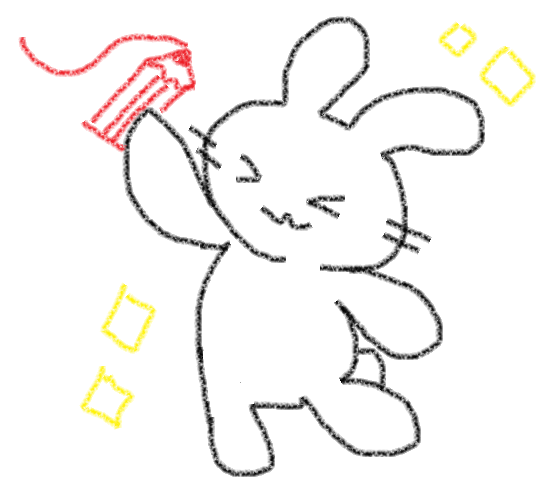
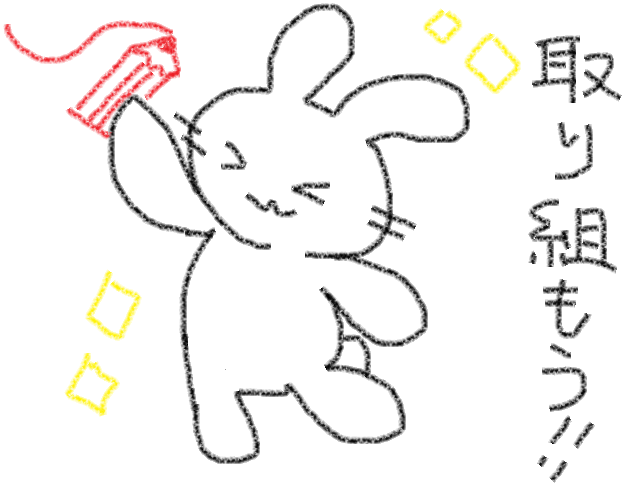
created create_conf.html not css

diff --git a/mysite/todos/templates/todos/create_conf.html b/mysite/todos/templates/todos/create_conf.html
@@ -34,7 +34,7 @@
                     <a href="{% url 'todos:create' %}">◁Todo作成画面へ移動</a>
                 </td>
                 <td>&nbsp;</td>
-                <td><img class="image" src="{% static 'todos/images/rabbit2.png' %}" alt="取り掛かりましょう！" width="300">
+                <td><img class="image" src="{% static 'todos/images/rabbit.png' %}" alt="取り掛かりましょう！" width="300">
                 </td>
             </tr>
         </table>
